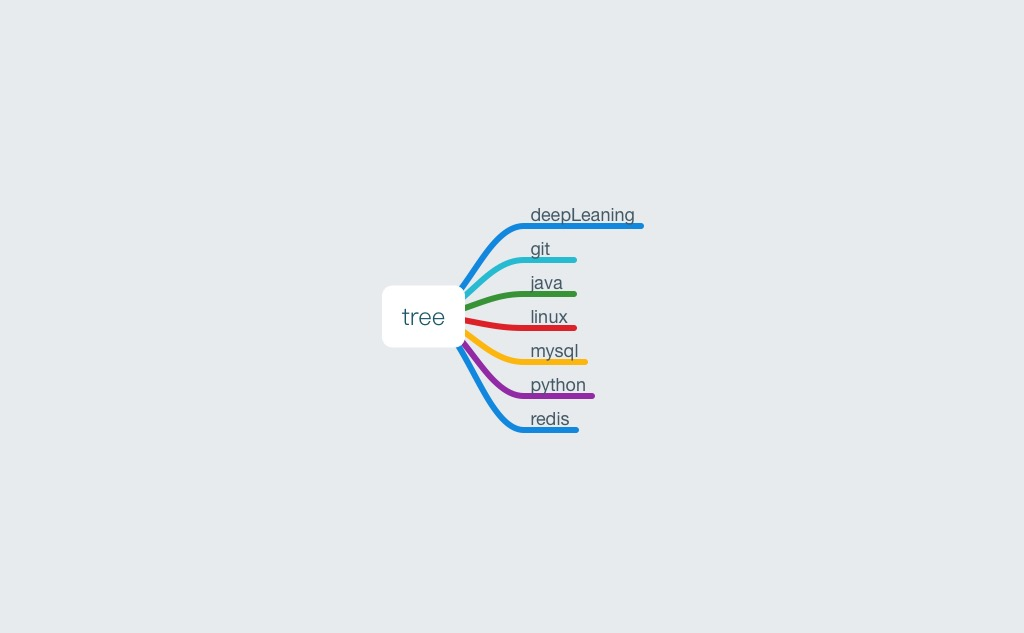
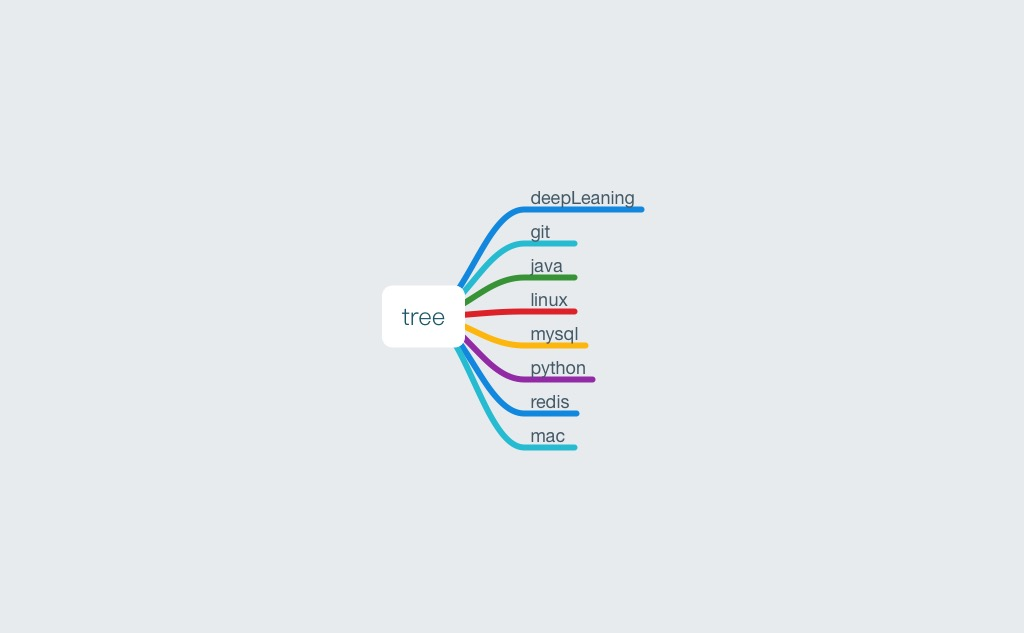
2017-10-26

Changed region(s): [[0.4375, 0.3002, 0.625, 0.7204]]

diff --git a/linux/常用cmd.md b/linux/常用cmd.md
@@ -66,8 +66,8 @@
 curl www.baidu.com
 
 ###用户新建
->1. sudo useradd -d /home/liyuxin -m  -s /bin/bash liyuxin
-2. sudo passwd  liyuxin
+>1. sudo useradd -d /home/lixuan -m  -s /bin/bash lixuan
+2. sudo passwd  lixuan
 3. sudo vim /etc/sudoers
 
 ###vim下忽略大小写查找

diff --git a/java/JavaLanguage.md b/java/JavaLanguage.md
@@ -1,0 +1,6 @@
+##List
+####用一行代码生成List
+```java
+List<Object> status = Arrays.asList(ApplyForStatus.审批通过.name(), ApplyForStatus.待确认.name());
+
+```

diff --git a/mac/mac.md b/mac/mac.md
@@ -1,3 +1,6 @@
 ##一些路径
 ####iphone 备份地址
 >/Users/holyant/Library/Application Support/MobileSync/Backup
+
+####finder 重启
+>killall Finder

diff --git a/linux/免密码登录ssh验证.md b/linux/免密码登录ssh验证.md
@@ -1,0 +1,4 @@
+
+cd ~/.ssh/
+把本地的id_rsa.pub 内容复制到.ssh/authorized_keys
+chmod o-w ~/;chmod 700 ~/.ssh;chmod 600 ~/.ssh/authorized_keys

diff --git a/linux/携带密码登录(sshpass).md b/linux/携带密码登录(sshpass).md
@@ -1,0 +1,5 @@
+####安装sshpass
+sudo yum install sshpass
+
+####携带密码登录
+sshpass -p 'Fyh2017' ssh yuhao@120.26.133.80
